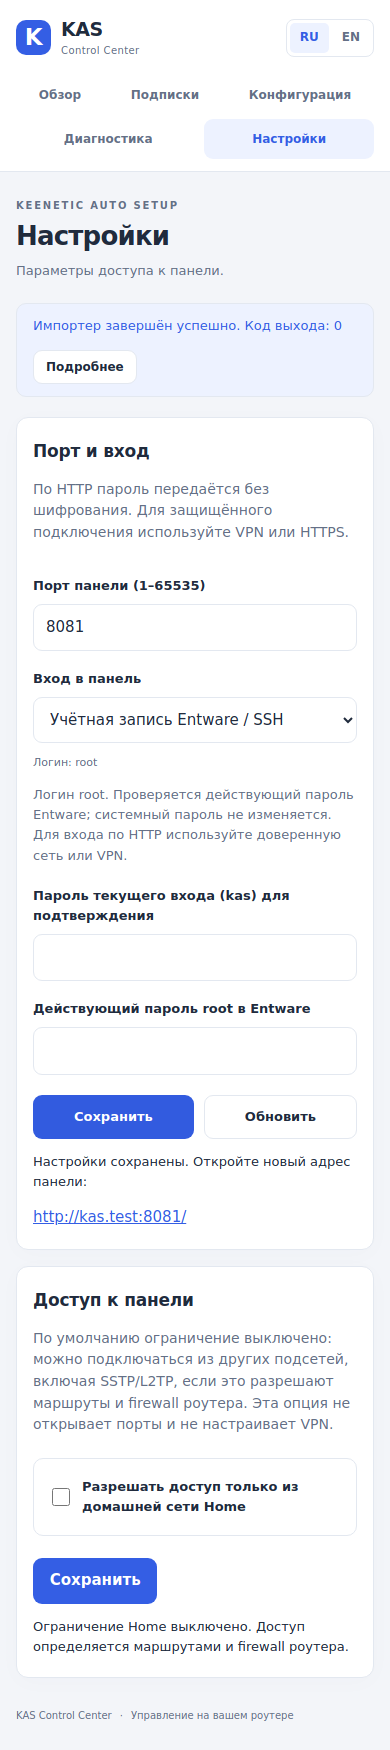
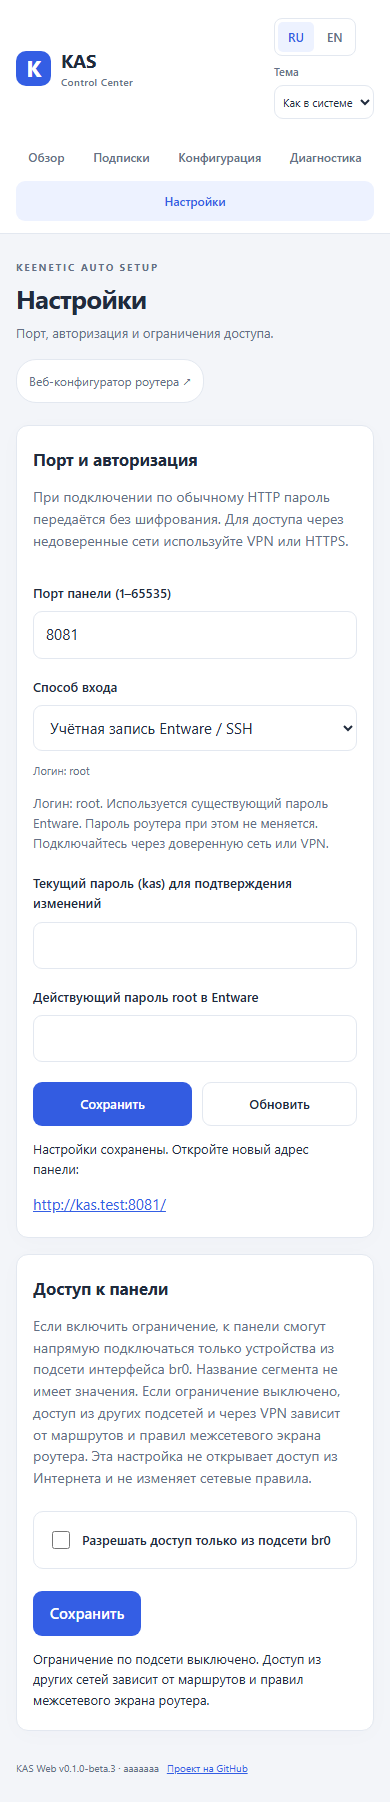
docs(web): refresh sanitized design previews for beta.3
Regenerated from the passing browser check with the new texts, the
sidebar theme selector and the build-stage badge. Adds dark desktop
overview plus configuration and diagnostics captures so all five views
are documented; captures now reset scroll/focus first so the sticky
sidebar and skip-link no longer render at the scroll offset, and the
fixture serves the update channel state so the selector is not empty.

diff --git a/web/control-center/design-preview/README.md b/web/control-center/design-preview/README.md
@@ -5,9 +5,12 @@ implemented HTML/CSS, not a separate visual mockup. These files are documentatio
 the router binary embeds only `web/*` and the canonical scripts.
 
 - [Desktop overview](overview-desktop.png)
+- [Dark desktop overview](overview-dark-desktop.png)
 - [Desktop subscriptions](subscriptions-desktop.png)
 - [Mobile subscriptions](subscriptions-mobile.png)
 - [Dark mobile subscriptions](subscriptions-dark-mobile.png)
+- [Desktop configuration](configuration-desktop.png)
+- [Desktop diagnostics](diagnostics-desktop.png)
 - [Desktop settings](settings-desktop.png)
 - [Mobile settings](settings-mobile.png)
 
